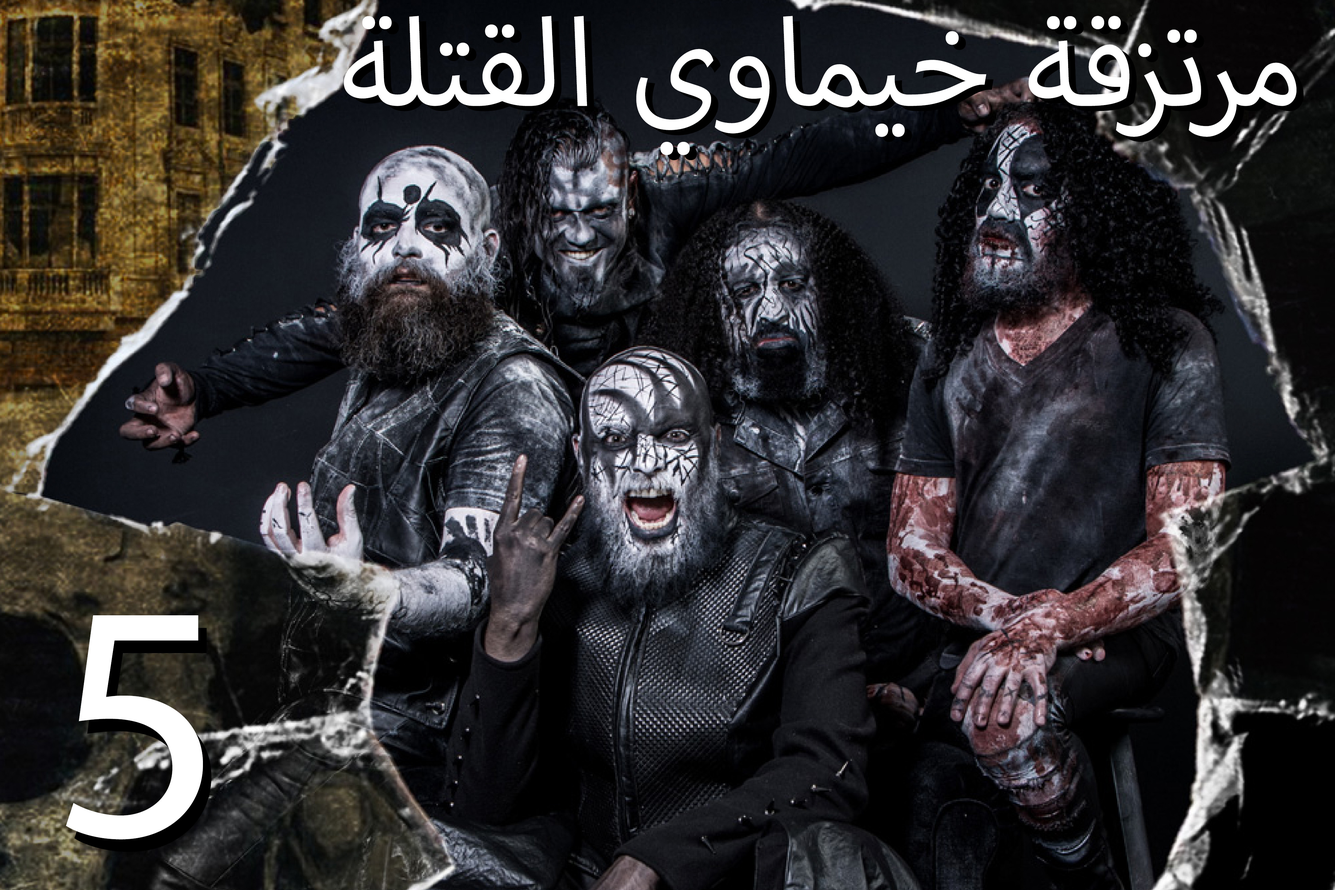
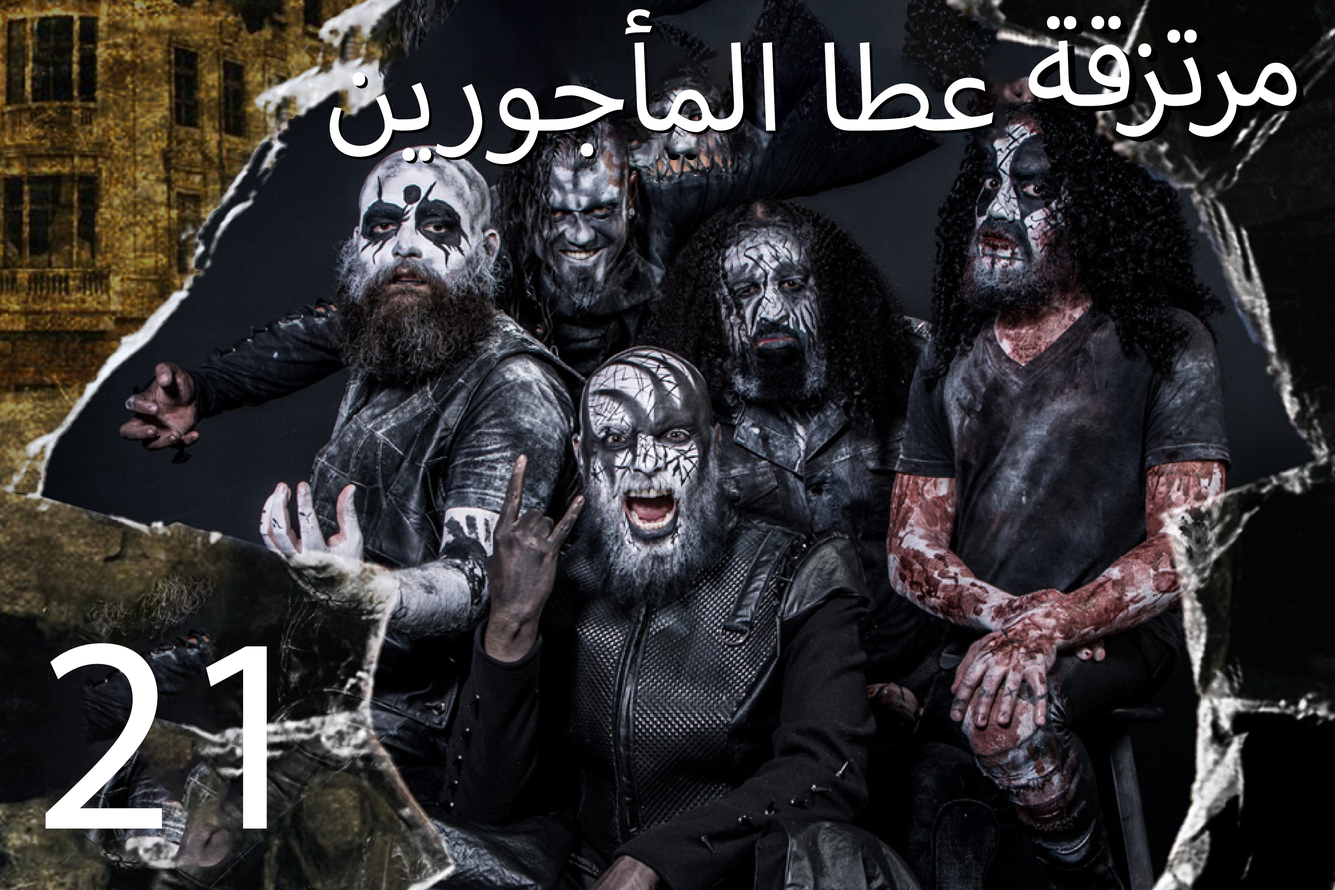
Fixes

Changed region(s): [[0.249, 0.0, 0.778, 0.1875], [0.0311, 0.625, 0.2178, 1.0]]

diff --git a/GameManager.js b/GameManager.js
@@ -41,23 +41,23 @@ function getDarkColor() {
 function updatePhoto(photoIndex) {
     let image = document.getElementById("image");
     image.setAttribute("src", (`./images/${photoIndex}.jpg`));
-    console.log(photoIndex);
+    // console.log(photoIndex);
 }
 function CalculateTeamPoints(points, teamTurn) {
-    console.log(`Picture value: ${points}`);
+    // console.log(`Picture value: ${points}`);
     if (teamTurn == 1) {
-        document.getElementById("1").getElementsByClassName("score")[0].textContent = 
-        parseInt(document.getElementById("1").getElementsByClassName("score")[0].textContent) + points;
+        document.getElementById("1").getElementsByClassName("score")[0].textContent =
+            parseInt(document.getElementById("1").getElementsByClassName("score")[0].textContent) + points;
     }
     if (teamTurn == 2) {
-        document.getElementById("2").getElementsByClassName("score")[0].textContent = 
-        parseInt(document.getElementById("2").getElementsByClassName("score")[0].textContent) + points;
+        document.getElementById("2").getElementsByClassName("score")[0].textContent =
+            parseInt(document.getElementById("2").getElementsByClassName("score")[0].textContent) + points;
     }
 }
 
 
 function ChangeTeamIndicator(teamTurn) {
-    console.log(`team: ${teamTurn}`);
+    // console.log(`team: ${teamTurn}`);
     if (teamTurn == 1) {
         document.getElementById("1").getElementsByTagName("i")[0].style.display = "none";
         document.getElementById("2").getElementsByTagName("i")[0].style.display = "inline";
@@ -67,7 +67,7 @@ function ChangeTeamIndicator(teamTurn) {
         document.getElementById("2").getElementsByTagName("i")[0].style.display = "none";
     }
     teamTurn = teamTurn == 1 ? 2 : 1;
-    console.log(`team: ${teamTurn}`);
+    // console.log(`team: ${teamTurn}`);
 }
 function SwapScores() {
     var holder = document.getElementById("1").getElementsByClassName("score")[0].textContent;
@@ -75,21 +75,25 @@ function SwapScores() {
     document.getElementById("2").getElementsByClassName("score")[0].textContent = holder;
 }
 
-var lastCardIndex; 
+var lastCardIndex;
 function handleEntry(photoIndex, teamTurn) {
     var points = photos[photoIndex];
-    if (photoIndex == 33) points = Math.floor(Math.random() * (10 - -10 + 1) + -10);
+    if (photoIndex == 33) {
+        points = Math.floor(Math.random() * (10 - -10 + 1) + -10);
+        alert(`نتيجة الروليت ${points}`);
+    };
     if (points == "GAMEOVER") {
         document.getElementById("GameOverModal").style.display = "block";
         document.getElementById("GameOverWinner").textContent = `أنتهت اللعبة! لقد فاز ${document.getElementById(teamTurn).getElementsByClassName("name")[0].textContent}`;
+        document.getElementById(teamTurn == 1 ? 2 : 1).getElementsByClassName("score")[0].textContent == 0;
         return;
     }
     else if (points == "SWAPSCORES") {
-        alert("تم تبديل نتيجة الفريقين!");
+        // alert("تم تبديل نتيجة الفريقين!");
         SwapScores();
     }
     else if (points == "PRISON") {
-        alert("الفريق الثاني حيختار كرتين!");
+        // alert("الفريق الثاني حيختار كرتين!");
         ChangeTeamIndicator(teamTurn);
         return;
     } else {
@@ -117,7 +121,7 @@ function FillTextButtons() {
         const icon = document.createElement("h3");
 
         buttons[index].setAttribute("onClick", `buttonClicked(${photosId[index]}); this.removeAttribute("onClick");disableButton(this);`);
-        
+
         if (index < 13 || (index > 36 && index < buttons.length)) {
             icon.textContent = numbers;
             numbers++;
@@ -143,5 +147,5 @@ function addField(teamId) {
     input.setAttribute("type", "text");
     document.getElementById(teamId)
         .appendChild(input);
-    console.log(teamId);
+    // console.log(teamId);
 }

diff --git a/photos.js b/photos.js
@@ -28,7 +28,7 @@ photos = {
     "24": 5,
     "25": 8,
     "26": 5,
-    "27": 5,
+    "27": 21,
     "28": 0,
     "29": 3,
     "30": "SWAPSCORES",
